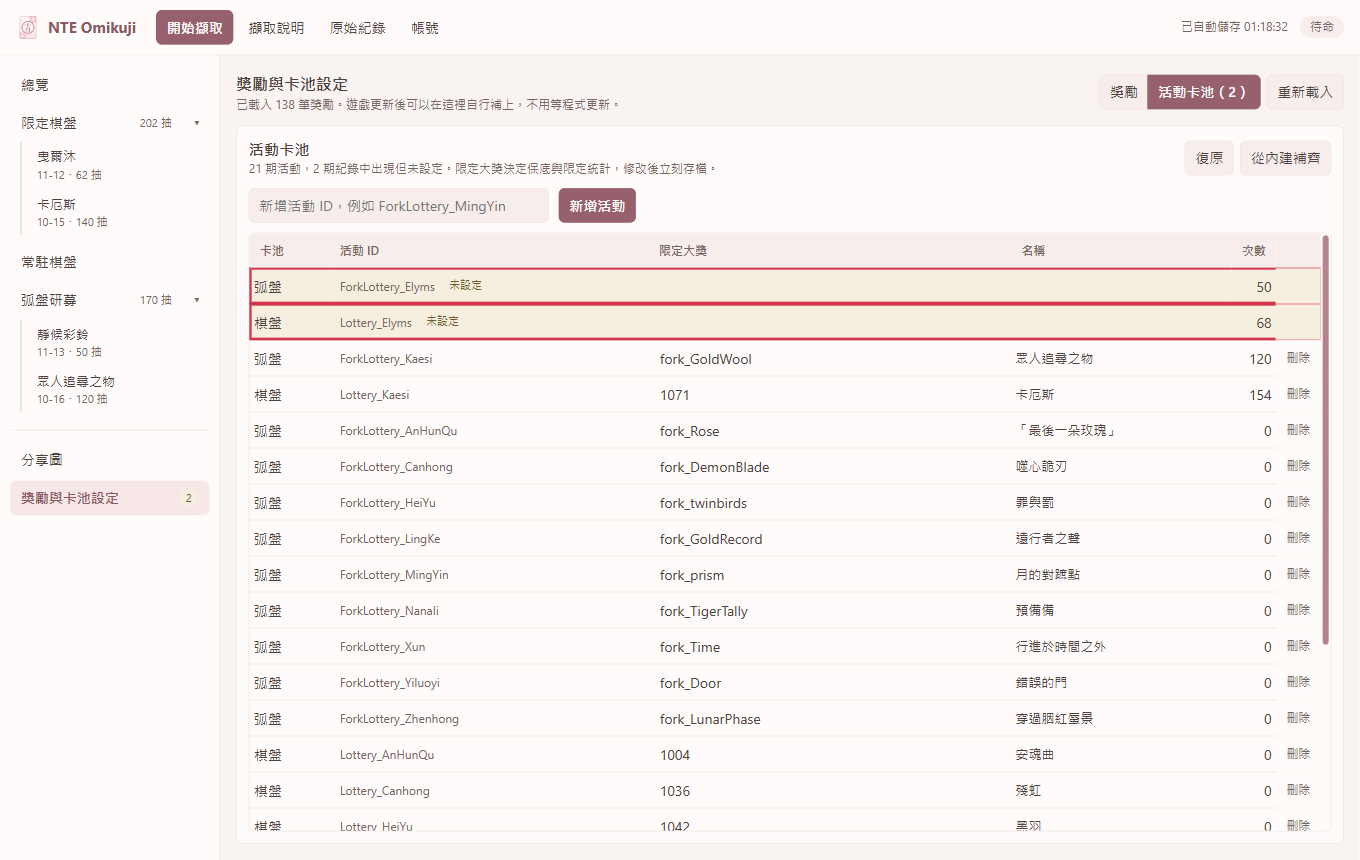
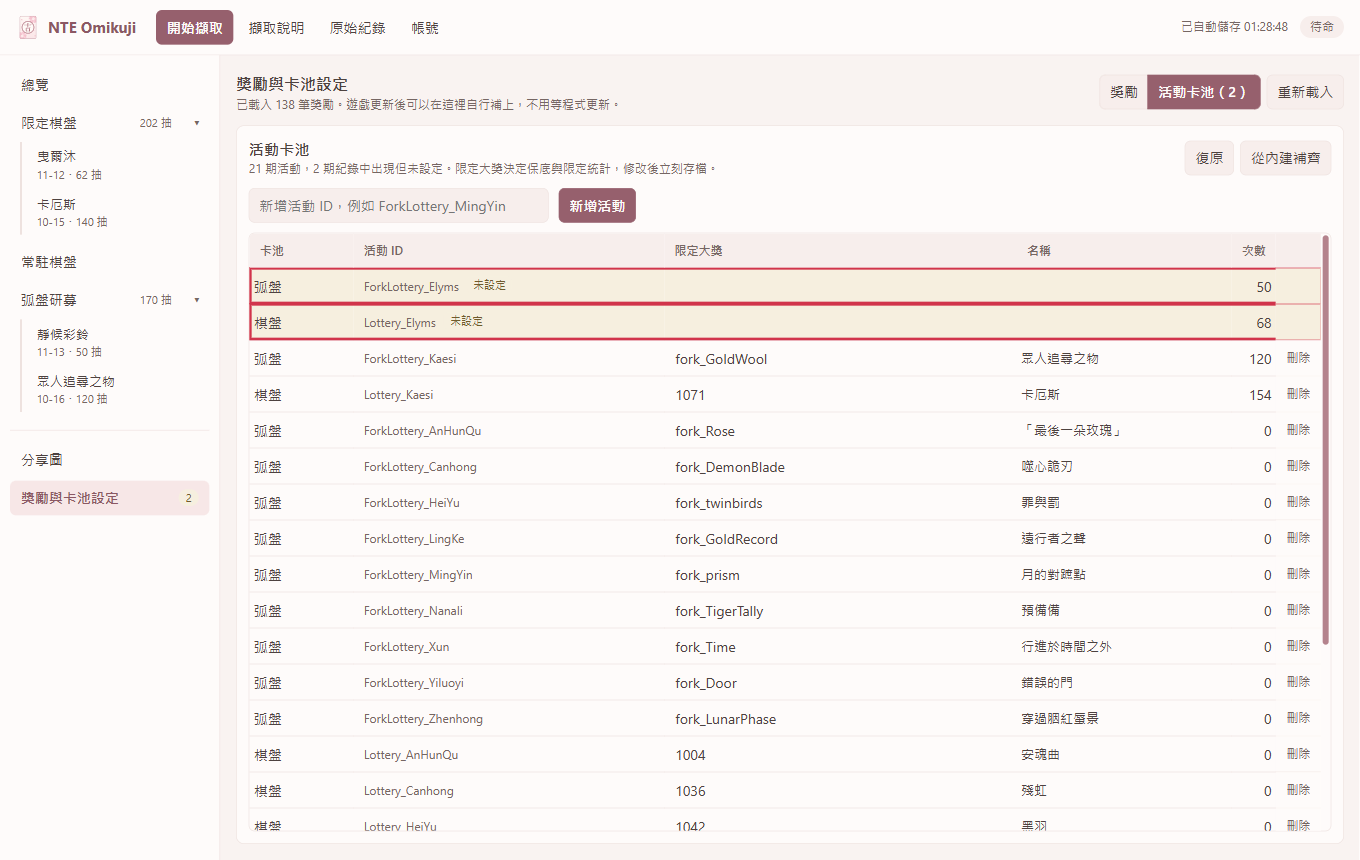
Widen the type column so character fits
The column cut the text off at charac. The README's screenshots are retaken to match.

diff --git a/src/NteOmikuji.App/WebRoot/app.css b/src/NteOmikuji.App/WebRoot/app.css
@@ -331,8 +331,8 @@ input[type=checkbox] { min-height: 0; vertical-align: -2px; accent-color: var(--
 .cell { width: 100%; min-width: 120px; min-height: 28px; padding: 2px 6px; background: transparent; border-color: transparent; }
 .cell:hover { border-color: var(--border); }
 .cell:focus { background: var(--surface); border-color: var(--accent); }
-.col-type { width: 80px; }
-.col-type .cell { min-width: 70px; }
+.col-type { width: 104px; }
+.col-type .cell { min-width: 94px; }
 .col-rank { width: 52px; }
 .col-rank .cell { min-width: 42px; }
 .col-focus { width: 126px; }
